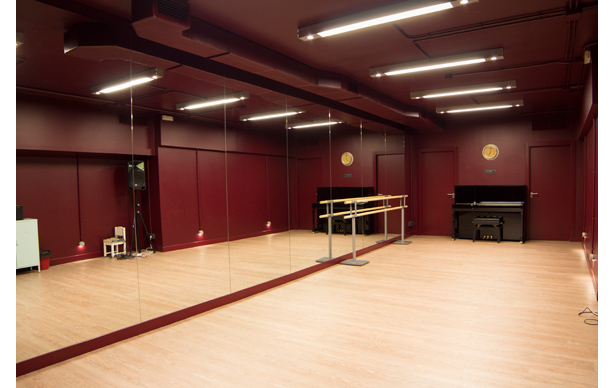
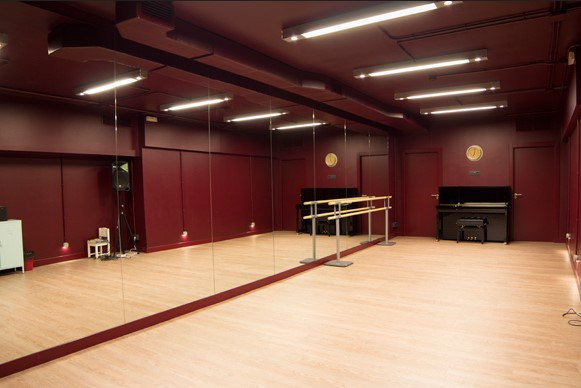
más cambios

diff --git a/pages/contacto.html b/pages/contacto.html
@@ -13,7 +13,7 @@
 <body>
     <header>
         <div class="div-logo"> 
-            <a href="./index.html"class="logo">Logo</a>
+            <a href="../index.html"class="logo">Logo</a>
         </div>
 
         <nav>